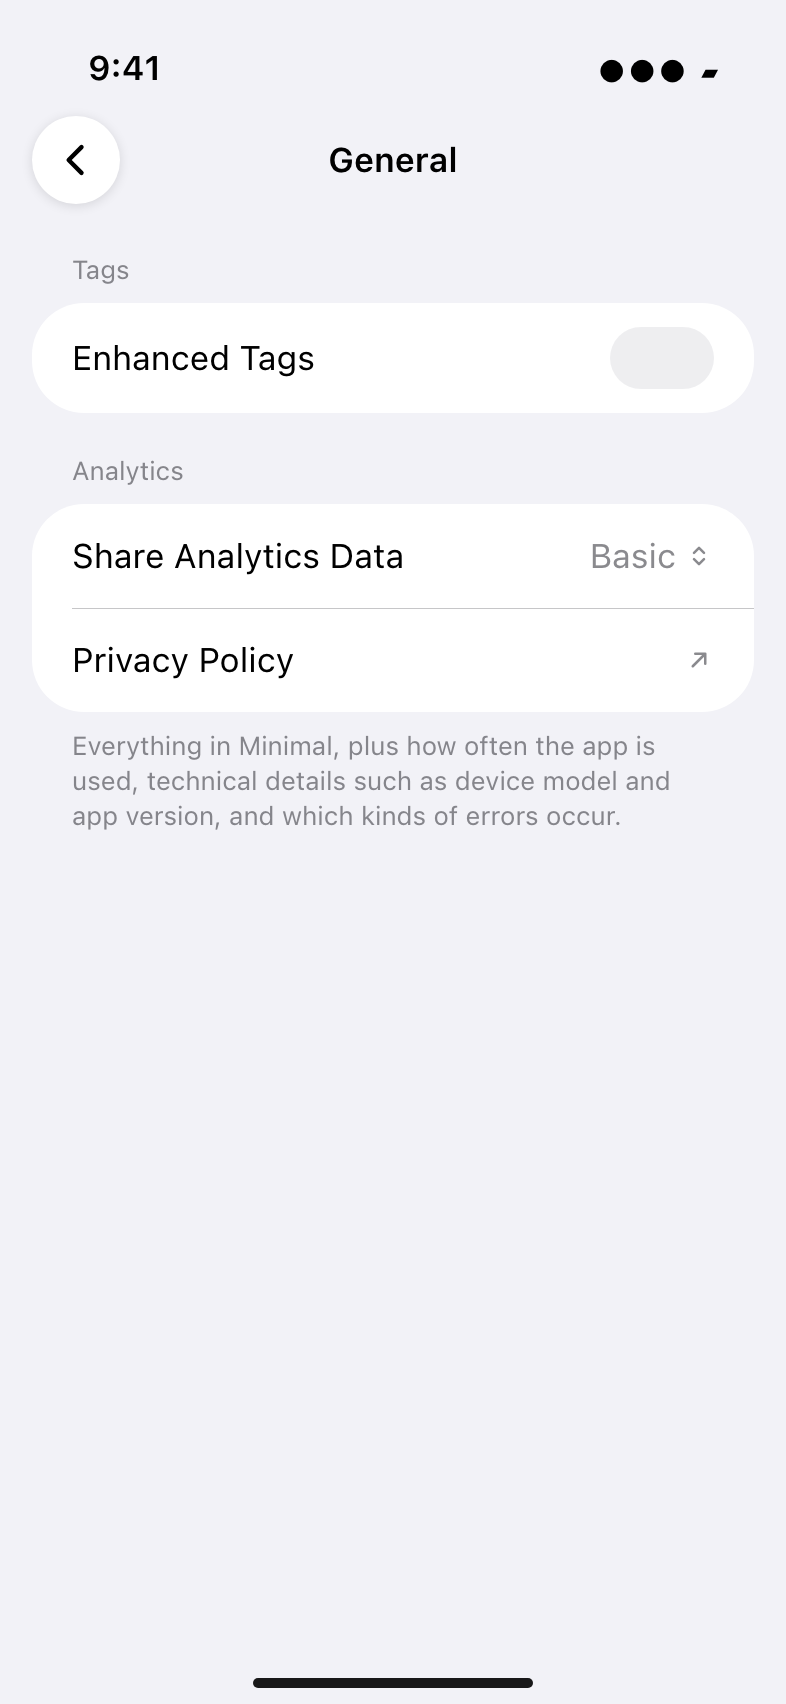
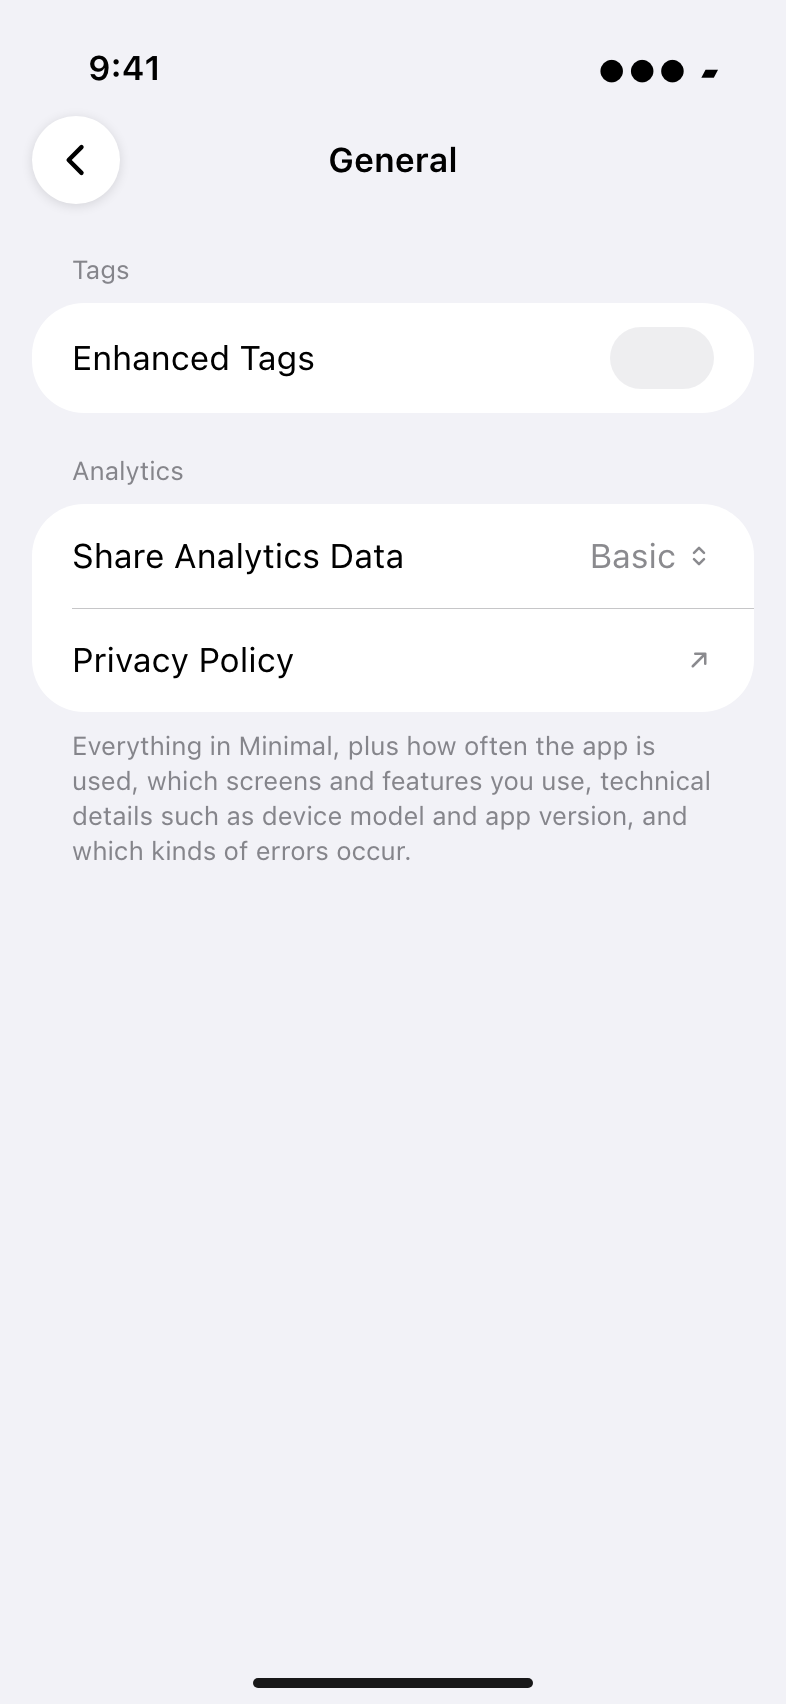
docs(18): take the designer's spec refresh for the Recommended label

Changed region(s): [[0.0916, 0.4354, 0.6718, 0.5288], [0.6718, 0.4354, 0.7939, 0.4977], [0.8244, 0.4354, 0.8855, 0.4977]]

diff --git a/.planning/phases/18-in-app-3-0-readiness-age-wall-analytics-choice-comment-moder/18-UI-SPEC.md b/.planning/phases/18-in-app-3-0-readiness-age-wall-analytics-choice-comment-moder/18-UI-SPEC.md
@@ -118,6 +118,7 @@ the system scales between.
 | Screen title | `.title` | 28pt | 58pt | `.bold()` | Age wall title, analytics title; centred; `.accessibilityAddTraits(.isHeader)` |
 | Body | `.body` | 17pt | 53pt | regular | Age wall body + declaration, analytics body, Settings rows |
 | Level name | `.headline` | 17pt | 53pt | semibold | Analytics card titles |
+| Recommended label | `.caption` | 12pt | 40pt | semibold, `.primary` | Capsule after the Basic name (C-3) |
 | Level description | `.subheadline` | 15pt | 49pt | regular, `.secondary` | Analytics card descriptions |
 | Button | `.headline` | 17pt | 53pt | semibold | Continue |
 | Collapsed-row label | `.subheadline` | 15pt | 49pt | regular, `.secondary` | "Comment from a user you've blocked" |
@@ -177,7 +178,7 @@ the catalog may rename them, never the text. Nothing on any screen below may say
 | Continue hint while dimmed (VoiceOver) | `age_wall.continue_hint` (age wall only — see C-2) |
 | Age wall footnote (always visible) | `age_wall.footnote` |
 | Analytics title / body | `consent.title` / `consent.body` |
-| Level names / descriptions | `consent.level.{minimal,basic,full}` / `…description`. Minimal replaces None (owner msg 1795); its name and description and the new `consent.body` are Camo's wording: name and `consent.body` from msg 1797 (approved msg 1805), Minimal's description from Revision 2 in msg 1815 (**approved msg 1818**, replaces the 1805 line), Basic's description from Revision 3 in msg 1832 (**approved msg 1839**), `consent.body` from the Revision 5 fallback in msg 1857 (**approved msg 1864**, replaces the 1805 body), as shown in the mockups |
+| Level names / descriptions | `consent.level.{minimal,basic,full}` / `…description`. Minimal replaces None (owner msg 1795); its name and description and the new `consent.body` are Camo's wording: name and `consent.body` from msg 1797 (approved msg 1805), Minimal's description from Revision 2 in msg 1815 (**approved msg 1818**, replaces the 1805 line), Basic's and Full's descriptions from Revision 6 in msg 1875 (**approved msg 1880**; screens and features moved from Full to Basic, replaces the 1839 Basic line), `consent.body` from the Revision 5 fallback in msg 1857 (**approved msg 1864**, replaces the 1805 body), as shown in the mockups |
 | Analytics footer | `consent.footer` |
 | Privacy link (both places) | `consent.privacy_link` |
 | Settings analytics row | `shareAnalyticsData` (existing key, now a picker); section header `analytics` (existing) |
@@ -262,7 +263,7 @@ hint) → footnote. Initial focus: the title.
 
 ### C-3 · Analytics choice [03, 04, 18, 21]
 
-**Layout decision: separate Continue, not save-on-tap.** Reason: with no default and three long descriptions, people
+**Layout decision: separate Continue, not save-on-tap.** Reason: nothing is pre-selected (owner msg 1882), so people
 read and compare before choosing; save-on-tap commits on a stray tap while scrolling and gives no chance to change
 your mind, and a shared Continue keeps both first-launch screens one pattern.
 
@@ -277,7 +278,7 @@ your mind, and a shared Continue keeps both first-launch screens one pattern.
    Same rule for the age wall title (C-2) and the Blocked Users empty-state title.
 3. 8pt · Body `consent.body`, `.body`, `.secondary`, centred.
 4. 24pt · **Three `ChoiceCard`s**, order Minimal, Basic, Full (owner's order; Minimal replaces None, owner msg 1795), 12pt apart, all identical in size rules,
-   type and colour while unselected — no badge, no "recommended", no different weight.
+   type and colour while unselected — the only difference is Basic's Recommended label below; no different weight or colour.
    - Card: `secondarySystemGroupedBackground`, radius 15, padding 16, full width, whole card tappable,
      `.hoverEffect(.highlight)` as C-2.
    - `HStack(alignment: .firstTextBaseline, spacing: 12)`: radio glyph, then `VStack(alignment: .leading, spacing: 4)`
@@ -285,8 +286,18 @@ your mind, and a shared Continue keeps both first-launch screens one pattern.
    - Radio: `circle` `.secondary` → `checkmark.circle.fill` accent, ≈ 28pt, `.symbolEffect(.replace)` (none with
      Reduce Motion).
    - Selected card: plus `.strokeBorder(Color.accentColor, lineWidth: 2)` on the card shape. Unselected: no stroke.
-   - Initially **none selected**. Tapping a card selects it (and deselects the others); tapping the selected card
-     keeps it. Haptic `.selection`.
+   - Initially **none selected** (owner msg 1882: Basic is recommended, not pre-selected). Tapping a card selects it
+     (and deselects the others); tapping the selected card keeps it. Haptic `.selection`.
+   - **Recommended label on Basic only** (`consent.level.recommended`, approved with msg 1882; Camo's msg 1875 file):
+     a capsule right after the name, inside the name row — `HStack(alignment: .firstTextBaseline, spacing: 8)` { name;
+     label }, wrapped in `ViewThatFits` so at large sizes the label drops onto its own line under the name, leading-
+     aligned, 4pt below. Label: `.caption.weight(.semibold)`, `.primary` (not `.secondary`: 12pt text needs 4.5:1, and `.primary` on the fill is > 12:1 in both modes), padding 8 h / 2 v,
+     `Capsule().fill(Color(.tertiarySystemFill))`. Neutral, never accent: accent means "selected", and the label
+     stays the same whether Basic is selected or not. `.accessibilityHidden` is NOT set — it is read as part of the
+     card (see VoiceOver below).
+   - **Order stays Minimal, Basic, Full** (layout call, Ato msg 1883). Reason: the descriptions are a ladder
+     ("Everything in Minimal, plus…", "Everything in Basic, plus…") that only reads top-down in that order, and the
+     label is what makes Basic stand out, not its position.
 5. 16pt · `consent.footer`, `.footnote`, `.secondary`, centred.
 6. 8pt · `Link(consent.privacy_link, destination: privacyURL)` with a trailing `arrow.up.right` (`.imageScale(.small)`,
    AX-hidden) — `.footnote.weight(.semibold)`, `.primary`, centred, 44pt min hit height. Opens in the default browser
@@ -296,7 +307,7 @@ your mind, and a shared Continue keeps both first-launch screens one pattern.
 On Continue: store the level, start the SDK only if Basic/Full (DD-09), crossfade to the app.
 
 VoiceOver: each card is one element — `.accessibilityElement(children: .combine)`, `.isButton`, `.isSelected` when
-selected, label = name + description. The three cards sit in a container labelled by the title
+selected, label = name + description; for Basic, name + "Recommended" + description (e.g. "Basic, Recommended, Everything in Minimal…"). The three cards sit in a container labelled by the title
 (`.accessibilityElement(children: .contain)`). Initial focus: the title.
 
 ### C-4 · Comment menu (comments list and Detail strip) [05, 09, 22]
@@ -443,7 +454,7 @@ Applicable state considerations resolved: 21 covered, 3 backstop, 0 unresolved.
 | Category | Element(s) | Status | Resolution / Reason |
 |----------|------------|--------|---------------------|
 | empty | Age wall, initial | ✅ covered | Checkbox unticked, Continue disabled and announced "dimmed" with `age_wall.continue_hint`; footnote visible |
-| empty | Analytics choice, initial | ✅ covered | No card selected, no stroke, Continue disabled |
+| empty | Analytics choice, initial | ✅ covered | No card selected, no stroke, Recommended label on Basic, Continue disabled |
 | empty | Blocked Users list | ✅ covered | `ContentUnavailableView` with `blocked_users.empty`, footer hidden |
 | empty | Blocked Users row, nobody blocked | ✅ covered | Row shows count "0" and still pushes the list |
 | loading | First-launch screens, Settings, Blocked Users | ✅ covered | No loading state: everything is local and instant |
@@ -487,8 +498,8 @@ Applicable state considerations resolved: 21 covered, 3 backstop, 0 unresolved.
 
 ### Mockup index (`mockups/`)
 
-01 age wall light, unticked · 02 age wall dark, ticked · 03 analytics light, nothing picked · 04 analytics dark,
-Basic · 05 comment menu · 06 report confirmation · 07 block confirmation dark · 08 collapsed row · 09 revealed row +
+01 age wall light, unticked · 02 age wall dark, ticked · 03 analytics light, as it opens (nothing picked, Basic recommended) · 04 analytics dark,
+Basic picked · 05 comment menu · 06 report confirmation · 07 block confirmation dark · 08 collapsed row · 09 revealed row +
 Unblock menu, dark · 10 posting warning · 11 Detail strip collapsed card · 12 General settings light (analytics) · 13 General settings dark,
 Minimal · 14 Blocked Users with swipe · 15 Blocked Users empty, dark · 16/17 age wall AX5 top/bottom · 18 analytics
 AX5 · 19 collapsed row AX5 · 20 iPad age wall landscape · 21 iPad analytics portrait dark · 22 iPad comments with a

diff --git a/.planning/phases/18-in-app-3-0-readiness-age-wall-analytics-choice-comment-moder/18-CONTEXT.md b/.planning/phases/18-in-app-3-0-readiness-age-wall-analytics-choice-comment-moder/18-CONTEXT.md
@@ -5,7 +5,7 @@
 **Amended:** 2026-11-05, during planning: D-06a, D-06b, DD-09a (owner msgs 1795, 1796, 1805; analytics "Minimal"),
 D-06c (owner msgs 1812, 1818; the install signal carries the install source), D-06d (owner msgs 1830, 1839; Basic's
 description builds on Minimal), D-06e (owner msgs 1844, 1854, 1864; the short analytics intro), D-06f (owner msgs 1869, 1880, 1882; screens and
-features move to Basic, Basic marked Recommended), D-14a (owner msg 1795; Blocked Users in Account settings), D-17a (UI-SPEC delivered, msgs 1791, 1803, 1807, 1820, 1826, 1843, 1866). The
+features move to Basic, Basic marked Recommended), D-14a (owner msg 1795; Blocked Users in Account settings), D-17a (UI-SPEC delivered, msgs 1791, 1803, 1807, 1820, 1826, 1843, 1866, 1886). The
 original decisions are kept as written; where an amendment differs, the amendment wins.
 **Sources:** the discussion prep [18-DISCUSSION-PREP.md](18-DISCUSSION-PREP.md) (locked decisions L1 to L46, gray areas GA-1 to GA-8, developer defaults, outside blockers, split proposal); the owner's answers to card msg 1748 (owner msg 1753) and card msg 1759 (owner msg 1765); the owner's copy approvals (msgs 1767, 1780). Where the owner answered, the answer overrides the prep. All dates are UTC.
 
@@ -280,7 +280,9 @@ Owner decisions are binding. "Prep L*n*" and "GA-*n*" refer to [18-DISCUSSION-PR
   in msg 1820, added the title line-break rule (owner msg 1822; C-3: a title's last line is never a single
   word, or for zh/ja/ko never a single character, in any locale or text size) in msg 1826, and took the Revision 3
   Basic line (D-06d, owner msg 1839) into the spec and refreshed mockups 03, 04, 12 and 21 in msg 1843, and took
-  the short intro (D-06e, owner msg 1864) into the spec and refreshed mockups 03, 04 and 21 in msg 1866: [18-UI-SPEC.md](18-UI-SPEC.md) with 24 mockups in `mockups/`. It is the
+  the short intro (D-06e, owner msg 1864) into the spec and refreshed mockups 03, 04 and 21 in msg 1866, and added Basic's Recommended label and the Revision 6
+  lines (D-06f, owner msgs 1880, 1882; order stays Minimal, Basic, Full) and refreshed mockups 03, 04, 12, 18 and 21
+  in msg 1886: [18-UI-SPEC.md](18-UI-SPEC.md) with 24 mockups in `mockups/`. It is the
   design contract for every UI task; `/gsd-ui-phase` is not run. His layout calls: a separate Continue on the
   analytics choice, dimmed until a level is picked; a `…` menu on each comment in the list with the same items on
   long-press and as VoiceOver actions, long-press only on the Detail strip; Report, Block and the posting warning are

diff --git a/.planning/phases/18-in-app-3-0-readiness-age-wall-analytics-choice-comment-moder/18-RESEARCH.md b/.planning/phases/18-in-app-3-0-readiness-age-wall-analytics-choice-comment-moder/18-RESEARCH.md
@@ -719,7 +719,7 @@ adds the failing tests. No framework install is needed.
 
 - Code at `e2174dfd2` (files cited inline); TelemetryDeck SwiftSDK 2.14.2 resolved checkout.
 - `18-CONTEXT.md` (incl. amendments D-06a, D-06b, D-06c, D-06d, D-06e, D-06f, DD-09a, D-14a, D-17a), `18-COPY-FIRST-LAUNCH.md`,
-  `18-COPY-MINIMAL.md` (with Revision 2, msg 1818, Revision 3, msg 1839, Revision 5, msg 1864, and Revision 6, msg 1880), `18-COPY-COMMENTS.md`, `18-UI-SPEC.md` (final, msg 1826; Basic line refreshed, msg 1843), `18-DISCUSSION-PREP.md`,
+  `18-COPY-MINIMAL.md` (with Revision 2, msg 1818, Revision 3, msg 1839, Revision 5, msg 1864, and Revision 6, msg 1880), `18-COPY-COMMENTS.md`, `18-UI-SPEC.md` (final, msg 1826; refreshed in msgs 1843, 1866 and 1886, the last adding the Recommended label), `18-DISCUSSION-PREP.md`,
   `18-DISCUSSION-LOG.md`.
 - iOS 27.2 SDK `MarketplaceKit.framework` Swift interface (`AppDistributor`).
 - TelemetryDeck SwiftSDK 2.14.2 at `AppPackage/.build/checkouts/SwiftSDK`: `TelemetryDeck.swift`,
